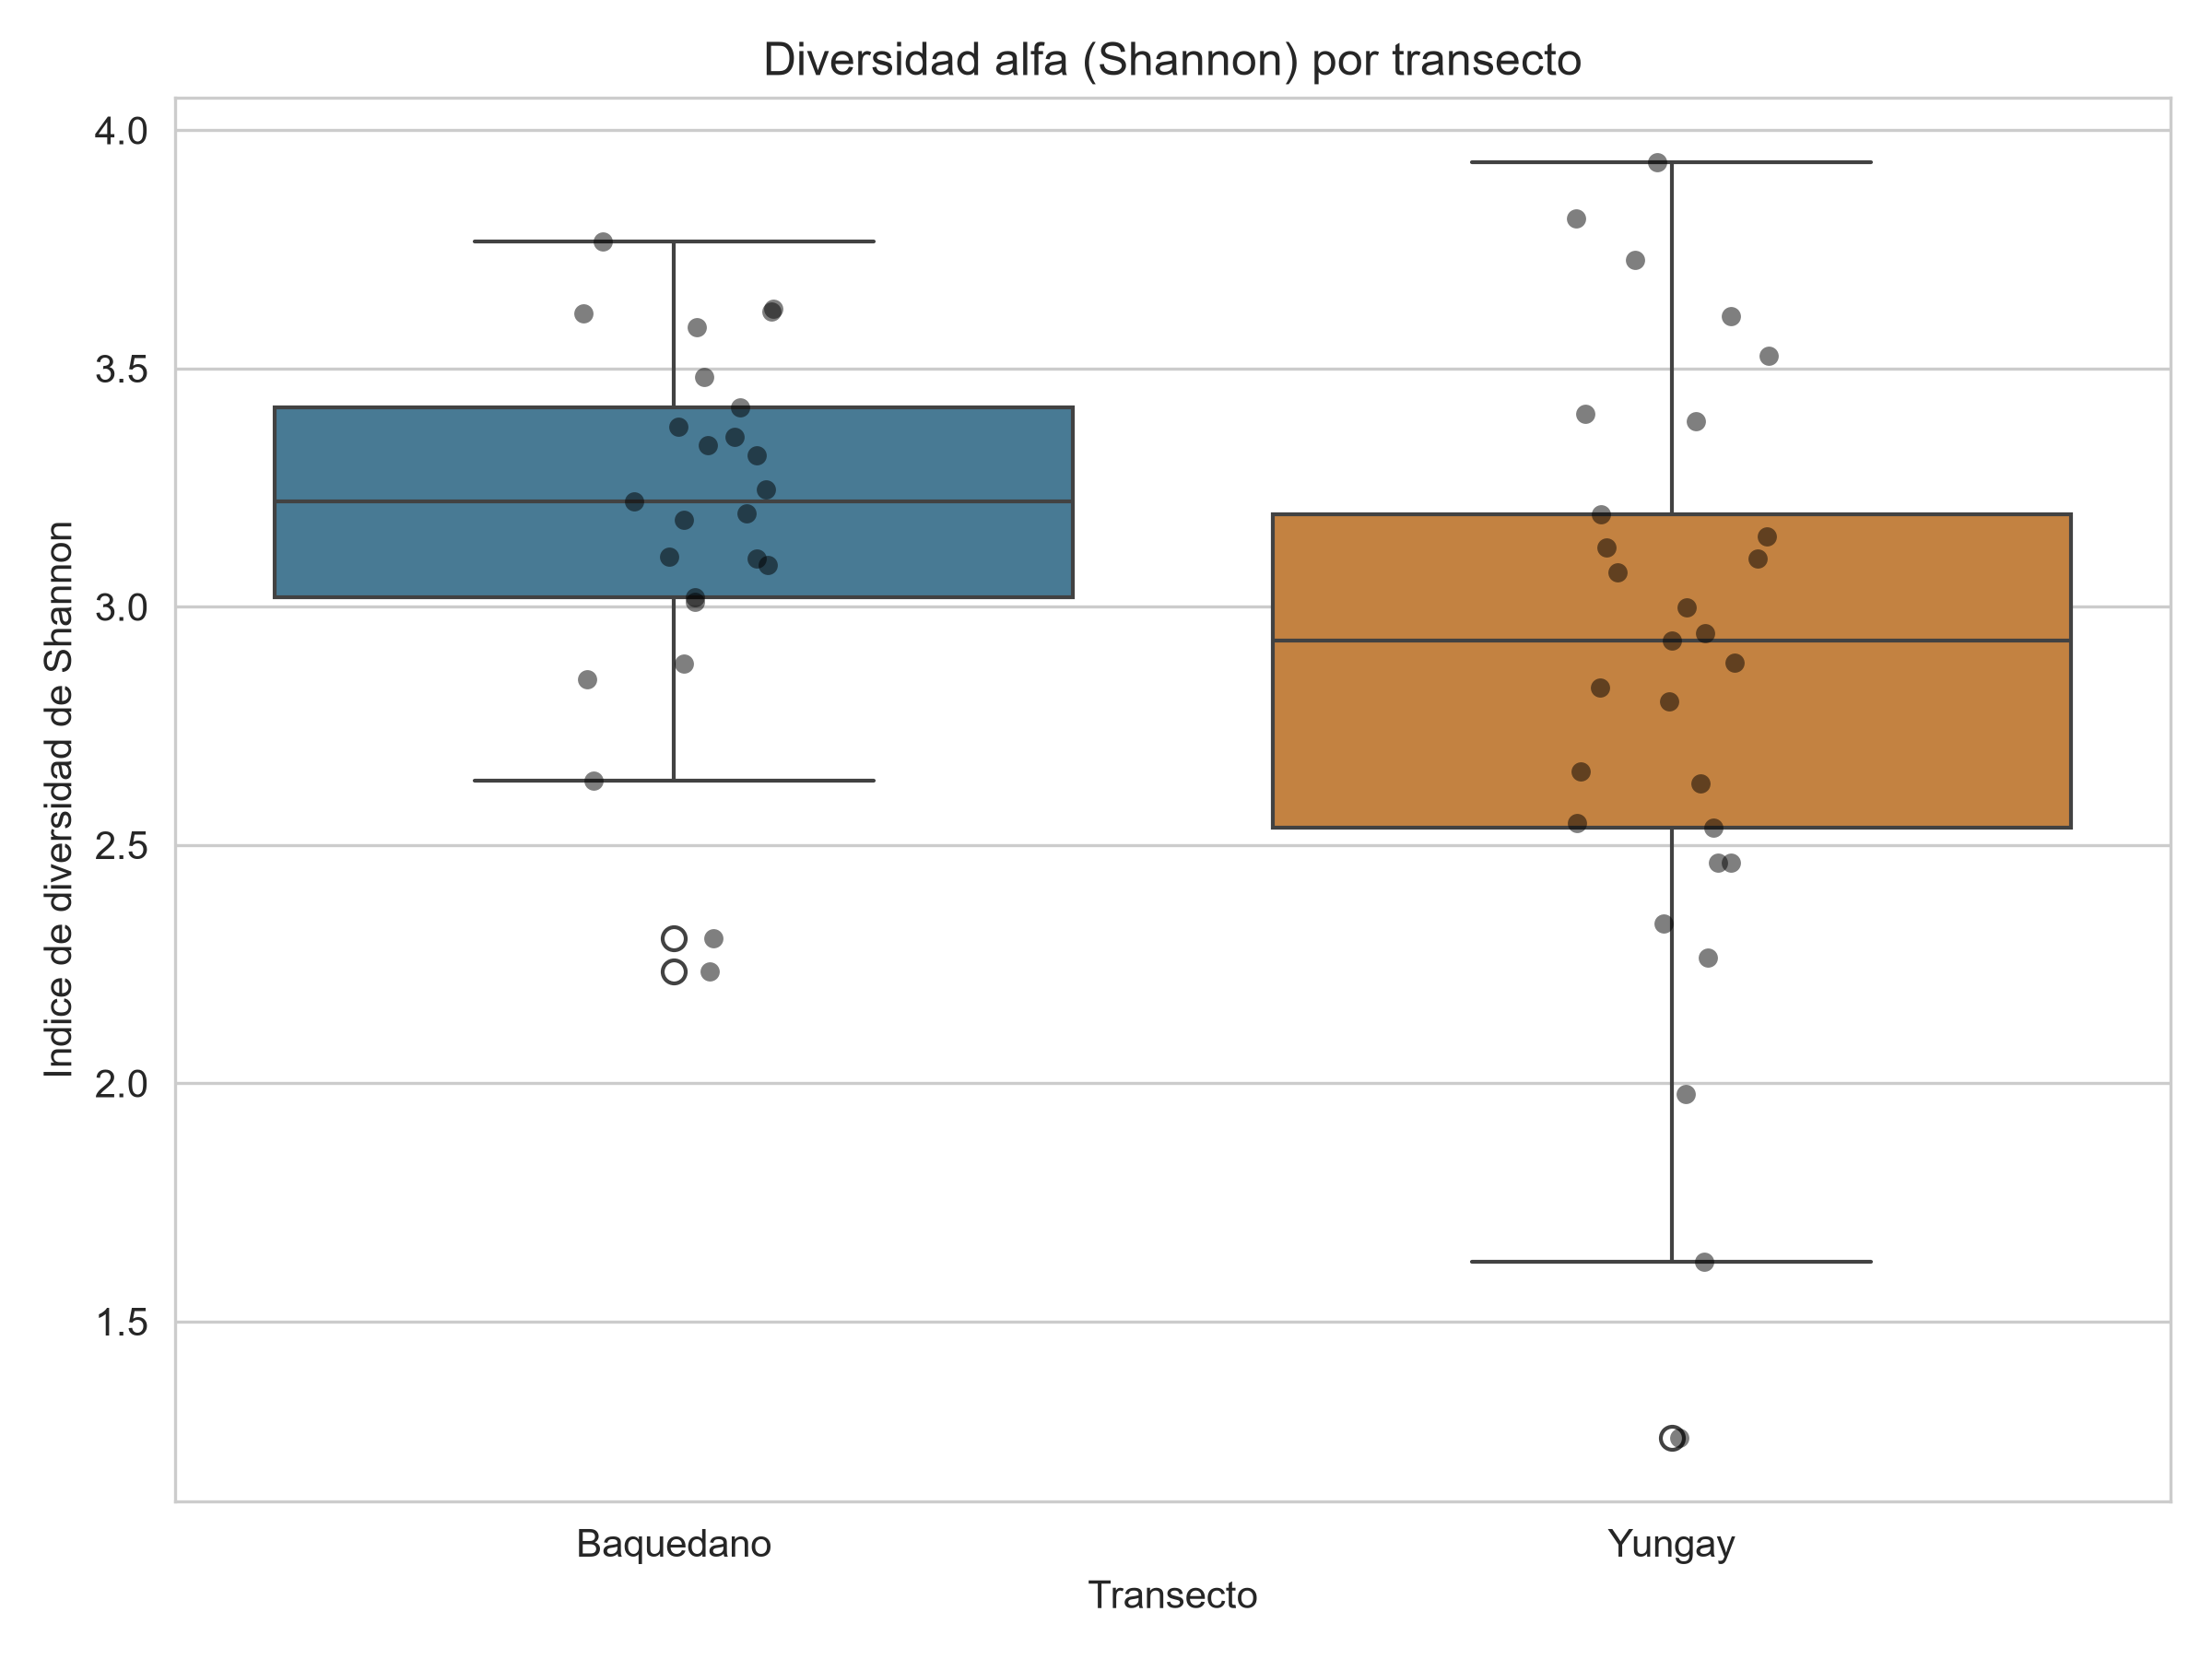
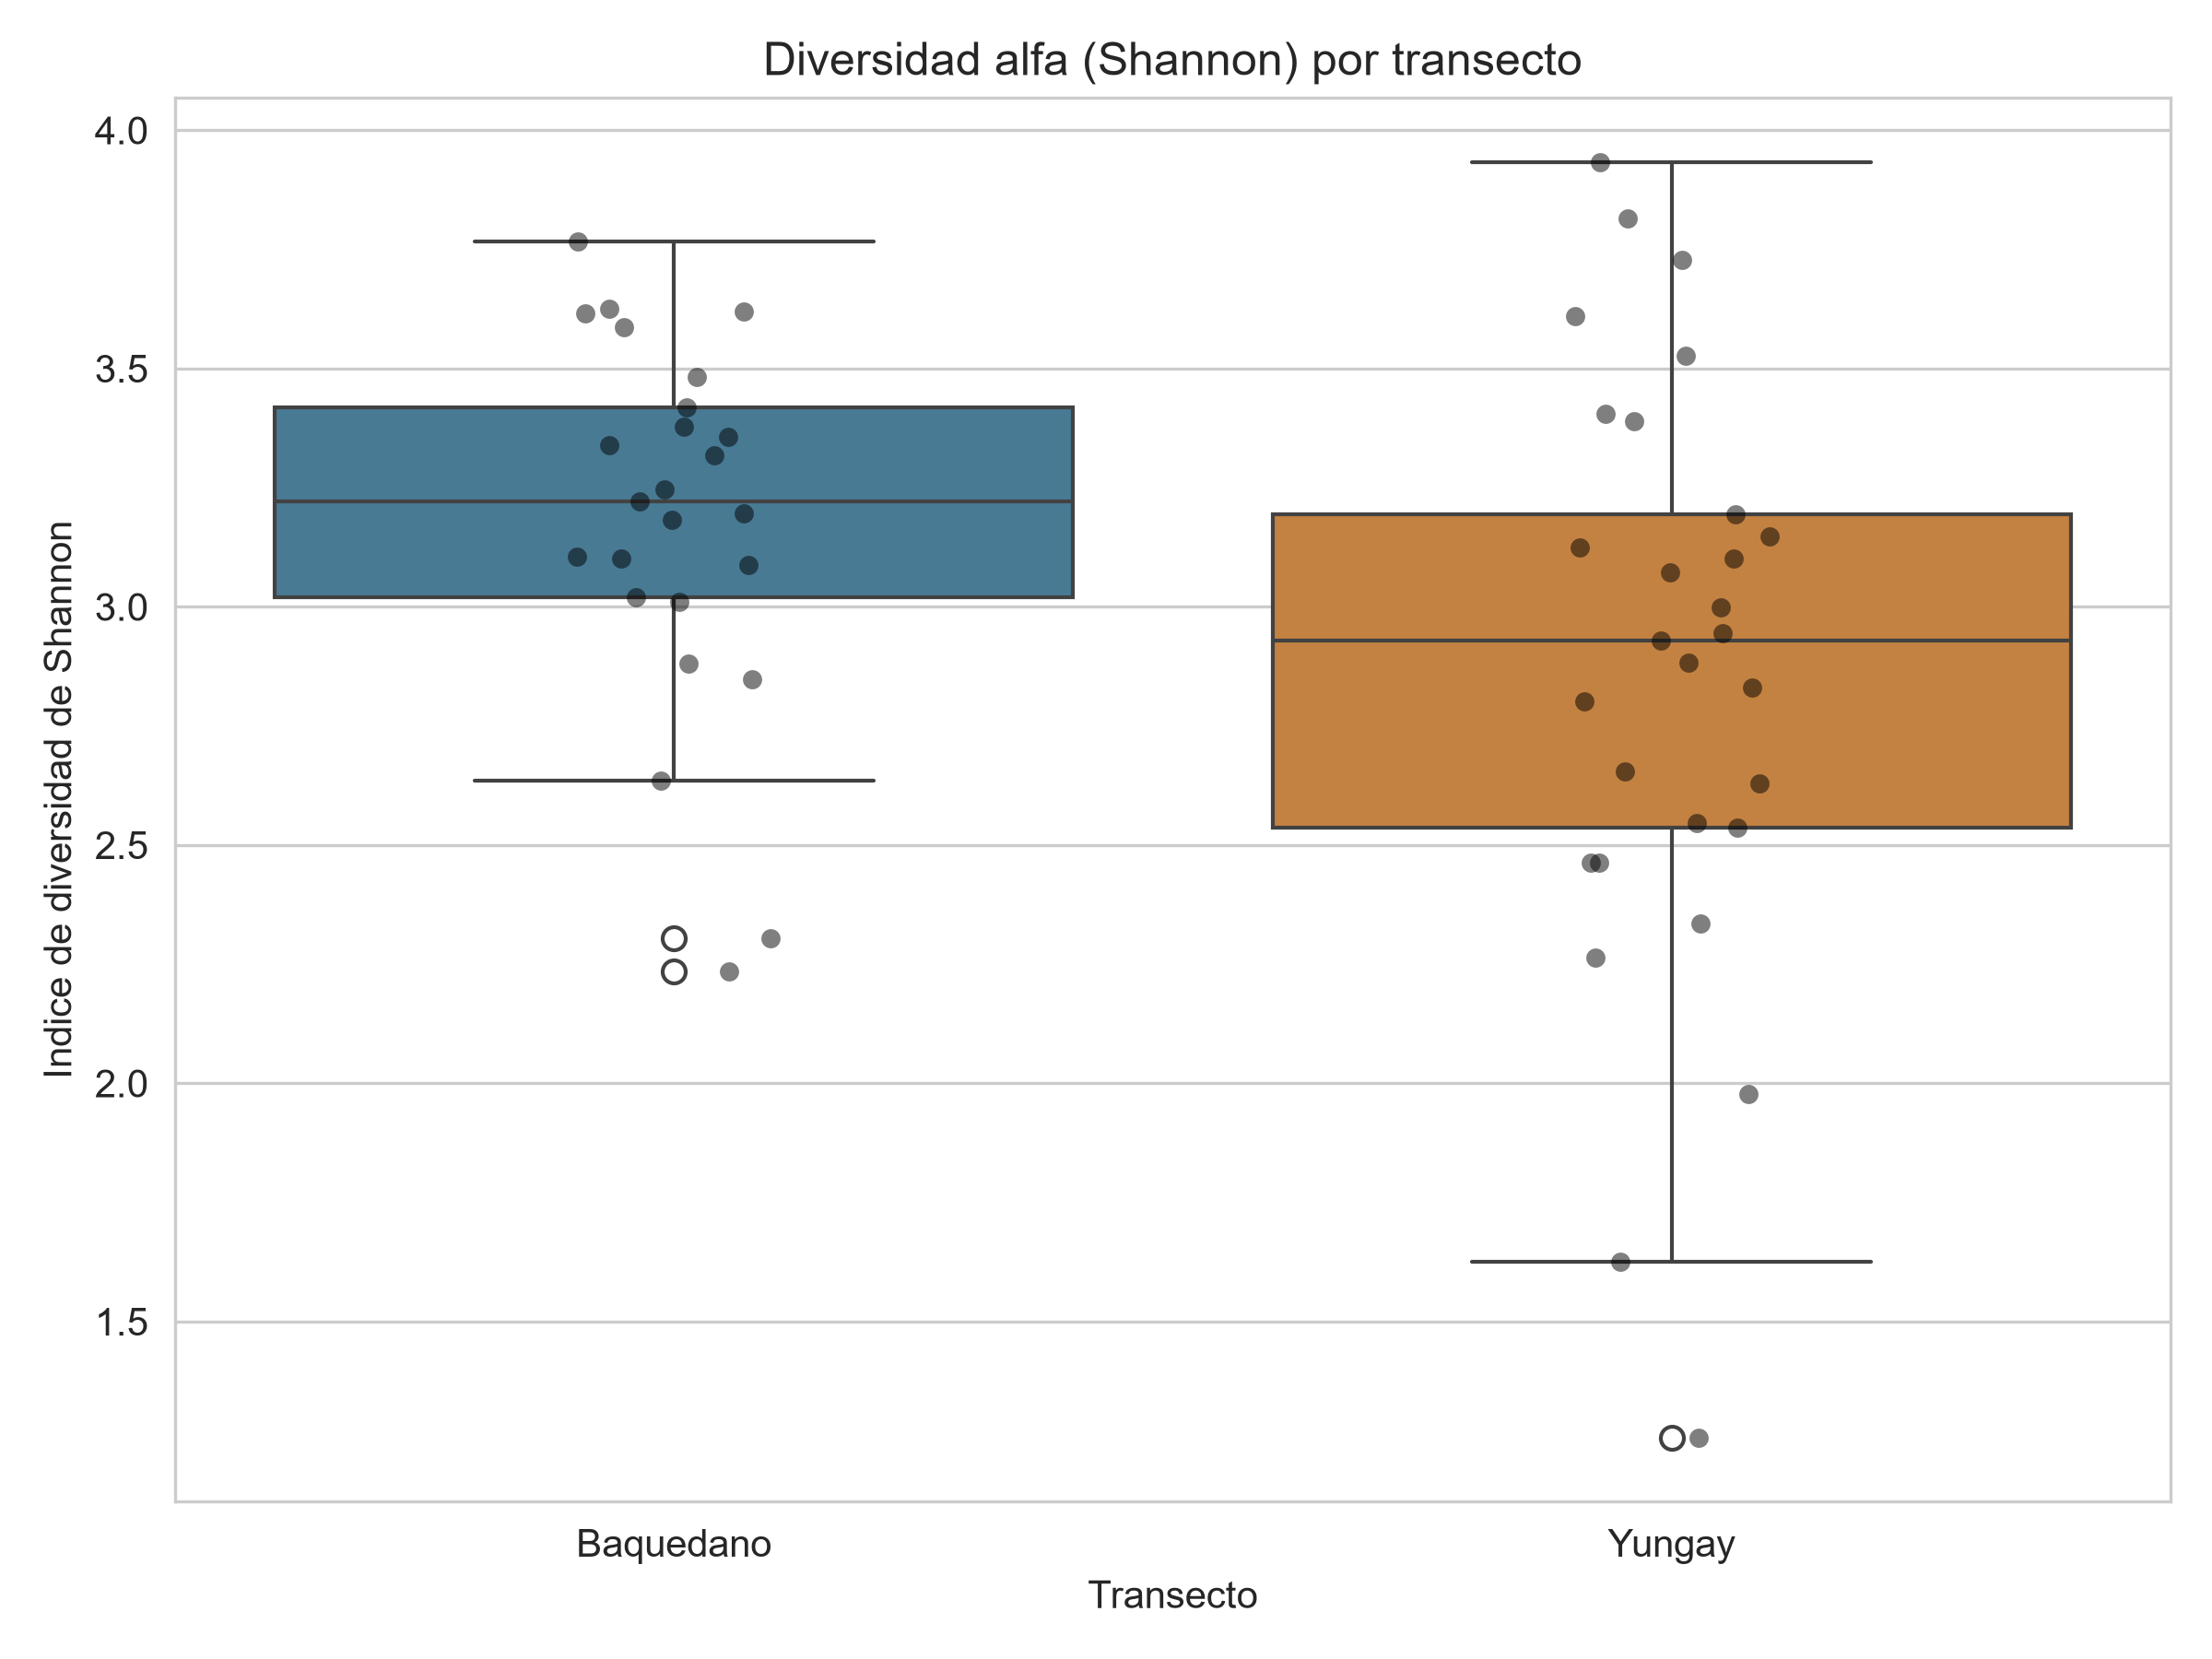
Agrega PERMANOVA univariada de variables ambientales (H3)
Implementa PERMANOVA (particion de sumas de cuadrados de McArdle y
Anderson 2001) para variables continuas, ya que scikit-bio solo
soporta PERMANOVA con grupos categoricos. Resultados verificados
contra expected_outputs/h3_permanova_variables_ambientales.tsv.

diff --git a/solution.py b/solution.py
@@ -2,8 +2,10 @@
 Analisis de diversidad alfa (Shannon) y beta (Bray-Curtis / PCoA)
 entre los transectos Baquedano y Yungay del desierto de Atacama.
 
-Reproduce parcialmente H1 (Shannon vs. humedad relativa del suelo)
-y H2 (separacion de transectos en la ordenacion PCoA).
+Reproduce H1 (Shannon vs. humedad relativa del suelo), H2
+(separacion de transectos en la ordenacion PCoA) y H3 (PERMANOVA
+univariada de humedad, temperatura y elevacion sobre la
+composicion, distancias Bray-Curtis).
 """
 
 import os
@@ -230,6 +232,103 @@ def graficar_pcoa(resultado_pcoa, metadata):
     print(resumen.round(4))
 
 
+# --- 4. PERMANOVA univariada (variables ambientales continuas) -----
+
+def permanova_variable_continua(dist_df, variable, n_perm=999,
+                                 semilla=0):
+    """PERMANOVA de una distancia contra una variable continua.
+
+    Implementa la particion de sumas de cuadrados de McArdle y
+    Anderson (2001), equivalente a un PERMANOVA/adonis univariado:
+    regresion de la matriz de distancias (centrada a la Gower)
+    contra la variable ambiental, con significancia evaluada por
+    permutacion de las muestras.
+    """
+    ids = [i for i in dist_df.index if not pd.isna(variable[i])]
+    d = dist_df.loc[ids, ids].to_numpy()
+    x = variable.loc[ids].to_numpy(dtype=float)
+    n = len(ids)
+
+    # Matriz de distancias centrada a la Gower (G).
+    a = -0.5 * (d ** 2)
+    centrado = np.eye(n) - np.ones((n, n)) / n
+    g = centrado @ a @ centrado
+    suma_cuadrados_total = np.trace(g)
+
+    def suma_cuadrados_regresion(x_valores):
+        diseno = np.column_stack([np.ones(n), x_valores])
+        hat = diseno @ np.linalg.pinv(diseno.T @ diseno) @ diseno.T
+        return np.trace(hat @ g)
+
+    ss_reg = suma_cuadrados_regresion(x)
+    ss_res = suma_cuadrados_total - ss_reg
+    df_reg, df_res = 1, n - 2
+    f_observado = (ss_reg / df_reg) / (ss_res / df_res)
+    r2 = ss_reg / suma_cuadrados_total
+
+    generador = np.random.default_rng(semilla)
+    mayores_o_iguales = 0
+    for _ in range(n_perm):
+        permutacion = generador.permutation(n)
+        ss_reg_perm = suma_cuadrados_regresion(x[permutacion])
+        ss_res_perm = suma_cuadrados_total - ss_reg_perm
+        f_perm = (ss_reg_perm / df_reg) / (ss_res_perm / df_res)
+        if f_perm >= f_observado:
+            mayores_o_iguales += 1
+    p_valor = (mayores_o_iguales + 1) / (n_perm + 1)
+
+    return f_observado, r2, p_valor, n
+
+
+def permanova_variables_ambientales(abundancias, metadata):
+    """PERMANOVA univariada de humedad, temperatura y elevacion."""
+    tabla = abundancias.T
+    distancias = beta_diversity(
+        "braycurtis", tabla.values, ids=tabla.index
+    )
+    dist_df = distancias.to_data_frame()
+
+    variables = [
+        ("humedad_relativa", "average-soil-relative-humidity"),
+        ("temperatura", "average-soil-temperature"),
+        ("elevacion", "elevation"),
+    ]
+
+    filas = []
+    for nombre, columna in variables:
+        n_validos = metadata[columna].notna().sum()
+        if n_validos < 10:
+            print(
+                f"\nAVISO: {nombre} tiene solo {n_validos} muestras "
+                "validas (< 10). Las permutaciones pueden ser "
+                "insuficientes."
+            )
+        f, r2, p, n = permanova_variable_continua(
+            dist_df, metadata[columna]
+        )
+        filas.append({
+            "variable": nombre, "columna_original": columna,
+            "F": f, "R2": r2, "p_valor": p,
+            "n_permutaciones": 999, "n": n,
+        })
+
+    resultado = pd.DataFrame(filas).sort_values(
+        "R2", ascending=False
+    ).reset_index(drop=True)
+    resultado.to_csv(
+        os.path.join(
+            CARPETA_SALIDA, "h3_permanova_variables_ambientales.tsv"
+        ),
+        sep="\t", index=False,
+    )
+    print(
+        "\nPERMANOVA univariada de variables ambientales "
+        "(Bray-Curtis, 999 permutaciones):"
+    )
+    print(resultado.round(4))
+    return resultado
+
+
 # --- Ejecucion principal --------------------------------------------
 
 def main():
@@ -246,6 +345,8 @@ def main():
 
     resultado_pcoa = calcular_pcoa(abundancias)
     graficar_pcoa(resultado_pcoa, metadata)
+
+    permanova_variables_ambientales(abundancias, metadata)
 
     print("\nListo. Figuras y tablas guardadas en 'outputs/'.")
 